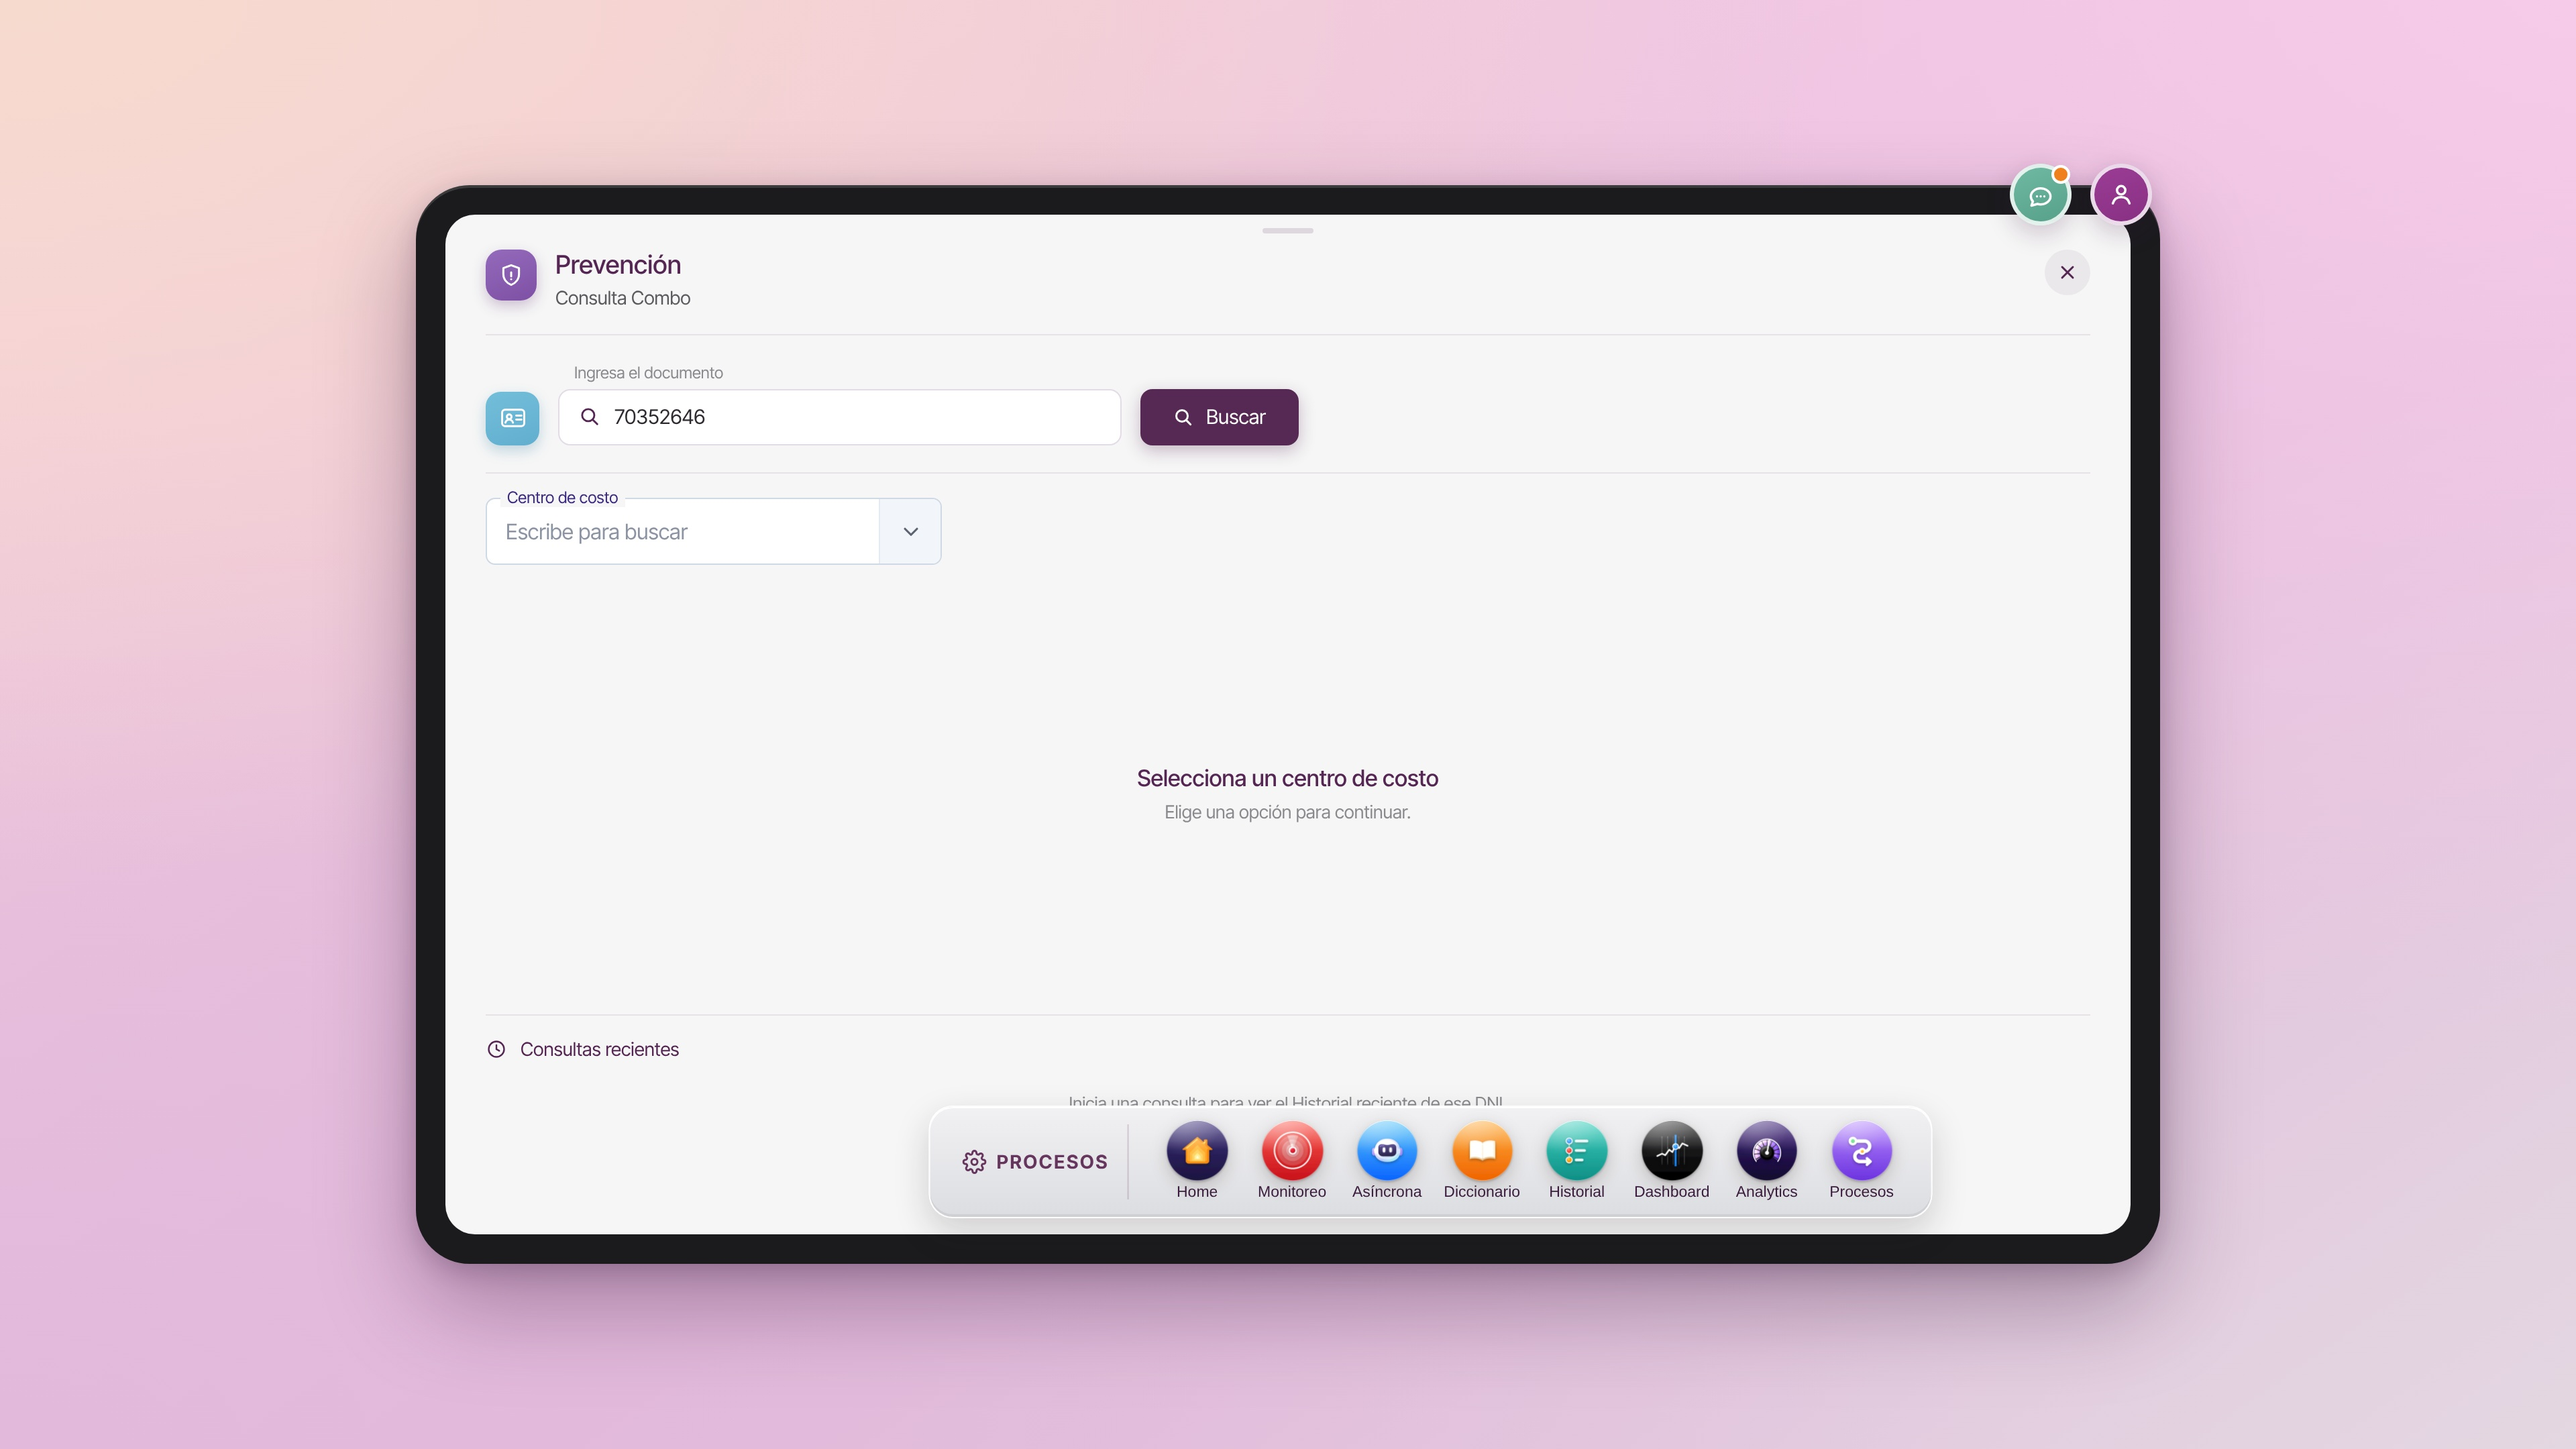
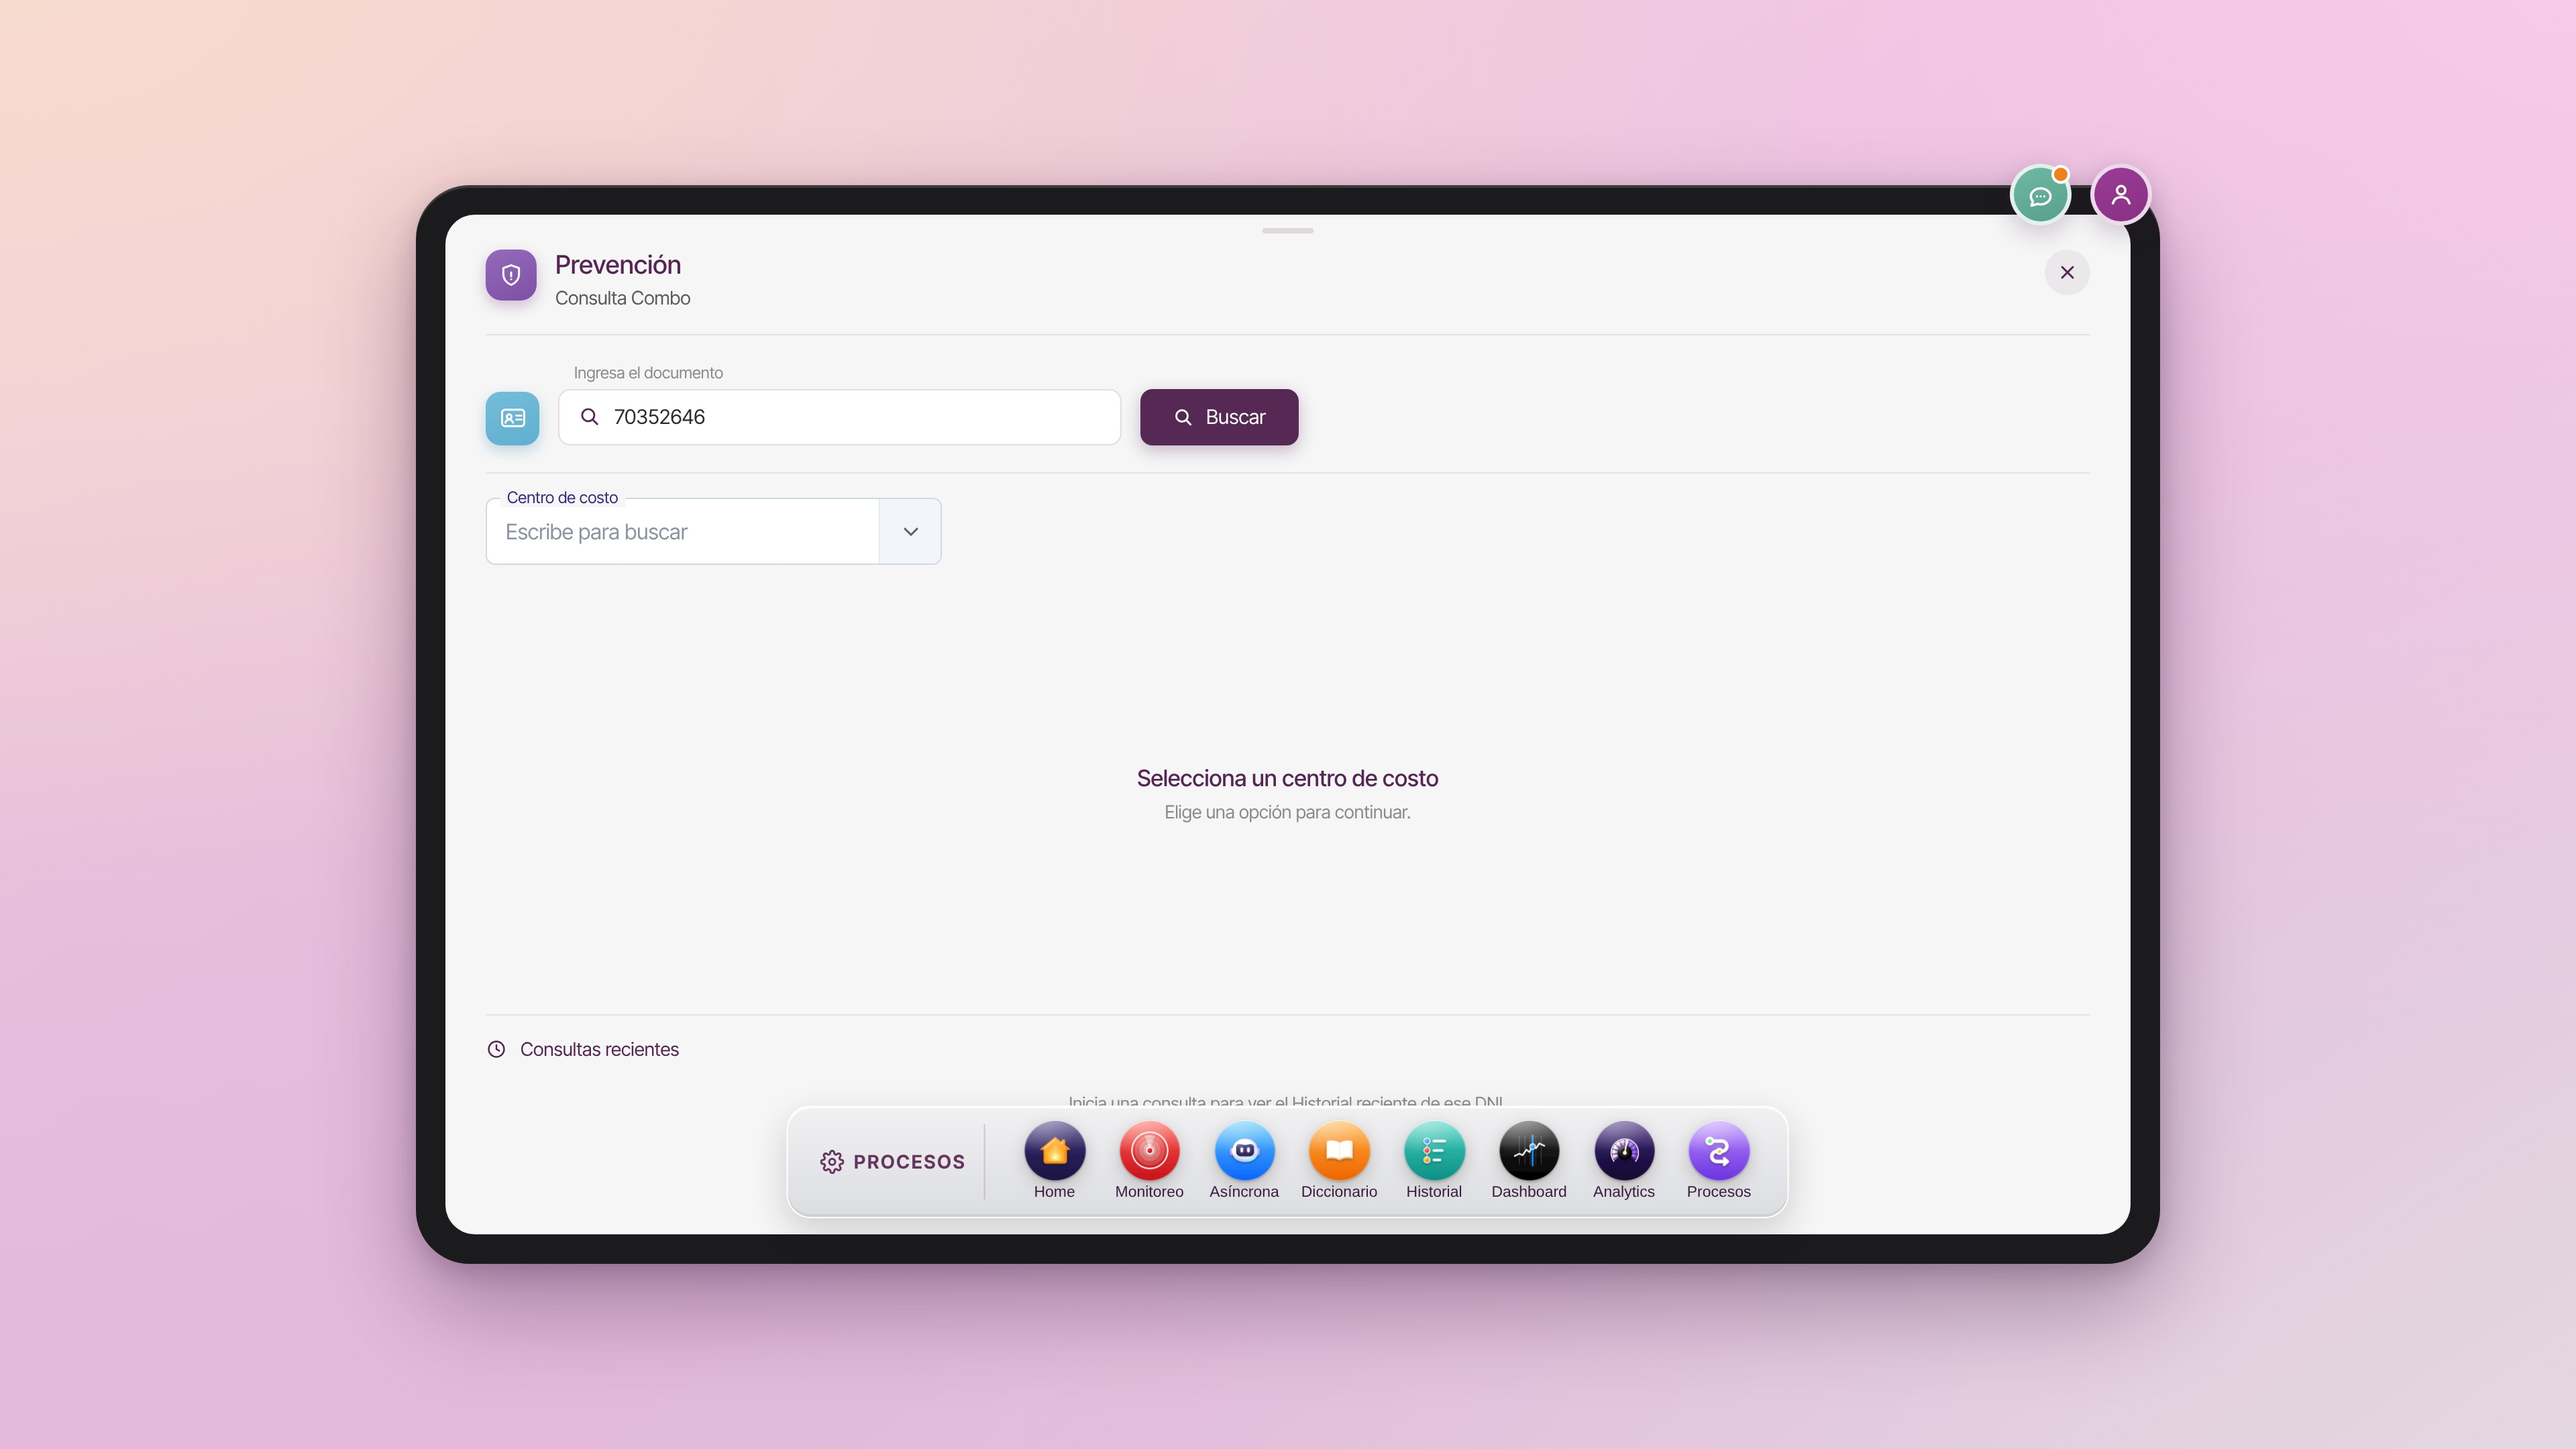
Dock centrado exacto en el lienzo
Claude-Session: https://claude.ai/code/session_01BR3p5w8J9tch2bgFdQMTu1

Changed region(s): [[0.3125, 0.7755, 0.75, 0.8685]]

diff --git a/entregables/ipartner-prevencion-resultado-dni.html b/entregables/ipartner-prevencion-resultado-dni.html
@@ -398,7 +398,7 @@ html,body{margin:0!important;padding:0!important;width:100%;height:100%;overflow
   background:radial-gradient(130% 110% at 0% 0%,var(--fondo-1) 0%,transparent 55%),radial-gradient(120% 120% at 100% 0%,var(--fondo-3) 0%,transparent 60%),radial-gradient(130% 120% at 0% 100%,var(--fondo-4) 0%,transparent 60%),linear-gradient(145deg,var(--fondo-2) 0%,var(--fondo-4) 55%,var(--fondo-5) 100%)}
 #lienzo .pantalla{height:760px}
 #lienzo .dock-zona{display:none}
-#dockHome{position:absolute!important;left:50%!important;bottom:171.98px!important;transform:translateX(-50%)!important;z-index:50;margin:0!important}
+#dockHome{position:absolute!important;left:50%!important;right:auto!important;top:auto!important;justify-self:auto!important;align-self:auto!important;bottom:171.98px!important;transform:translateX(-50%)!important;z-index:50;margin:0!important}
 </style>
 <style id="resultado-dni">
 #lienzo .fila-centro,#lienzo .cuerpo,#lienzo .recientes{display:none}

diff --git a/entregables/ipartner-prevencion-combo-dock.html b/entregables/ipartner-prevencion-combo-dock.html
@@ -398,7 +398,7 @@ html,body{margin:0!important;padding:0!important;width:100%;height:100%;overflow
   background:radial-gradient(130% 110% at 0% 0%,var(--fondo-1) 0%,transparent 55%),radial-gradient(120% 120% at 100% 0%,var(--fondo-3) 0%,transparent 60%),radial-gradient(130% 120% at 0% 100%,var(--fondo-4) 0%,transparent 60%),linear-gradient(145deg,var(--fondo-2) 0%,var(--fondo-4) 55%,var(--fondo-5) 100%)}
 #lienzo .pantalla{height:760px}
 #lienzo .dock-zona{display:none}
-#dockHome{position:absolute!important;left:50%!important;bottom:171.98px!important;transform:translateX(-50%)!important;z-index:50;margin:0!important}
+#dockHome{position:absolute!important;left:50%!important;right:auto!important;top:auto!important;justify-self:auto!important;align-self:auto!important;bottom:171.98px!important;transform:translateX(-50%)!important;z-index:50;margin:0!important}
 </style>
 </head>
 <body>
